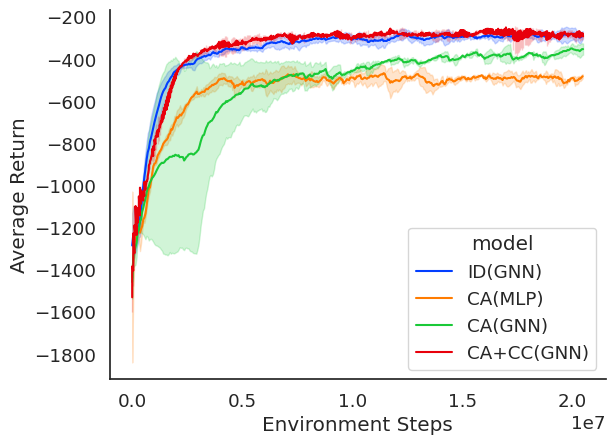
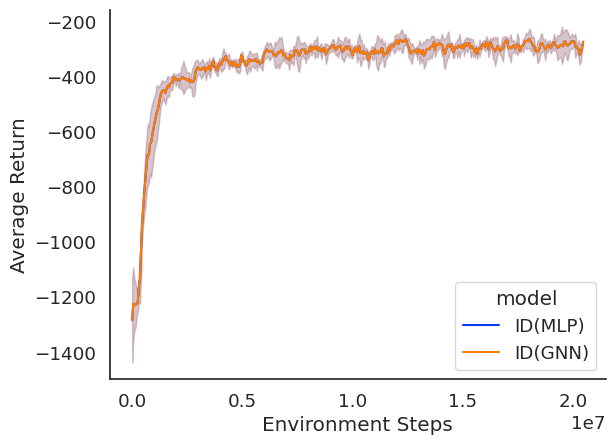
updated evaluations to incoporate agent id MLP model.

diff --git a/eval/run_all_evals.py b/eval/run_all_evals.py
@@ -3,52 +3,56 @@ import os
 import time
 
 eval_dict = {
-    "eval_3_agents_unseen_bc_default.yaml" : {
-        "SC_4_agents_HSN" : [1, 2, 3],
-        "MLP_4_agents_HSN" : [1, 2, 3],
-        "SC_CASKIP_4_agents_HSN" : [1, 2, 3]
-    },
-    "eval_4_agents_unseen_bc_default.yaml" : {
-        "SC_4_agents_HSN" : [1, 2, 3],
-        "MLP_4_agents_HSN" : [1, 2, 3],
-        "SC_CASKIP_4_agents_HSN" : [1, 2, 3]
-    },
-    "eval_4_agents_seen_bc_default.yaml" : {
-        "SC_4_agents_HSN" : [1, 2, 3],
-        "MLP_4_agents_HSN" : [1, 2, 3],
-        "SC_CASKIP_4_agents_HSN" : [1, 2, 3]
-    },
-    "eval_5_agents_unseen_bc_default.yaml" : {
-        "SC_4_agents_HSN" : [1, 2, 3],
-        "MLP_4_agents_HSN" : [1, 2, 3],
-        "SC_CASKIP_4_agents_HSN" : [1, 2, 3]
-    },
-    "eval_4_agents_CA_unseen_bc_default.yaml" : {
-        "SC_4_agents_HSN" : [1, 2, 3],
-        "MLP_4_agents_HSN" : [1, 2, 3],
-        "SC_CASKIP_4_agents_HSN" : [1, 2, 3]
-    },
+    # "eval_3_agents_unseen_bc_default.yaml" : {
+    #     "SC_4_agents_HSN" : [1, 2, 3],
+    #     "MLP_4_agents_HSN" : [1, 2, 3],
+    #     "SC_CASKIP_4_agents_HSN" : [1, 2, 3]
+    # },
+    # "eval_4_agents_unseen_bc_default.yaml" : {
+    #     "SC_4_agents_HSN" : [1, 2, 3],
+    #     "MLP_4_agents_HSN" : [1, 2, 3],
+    #     "SC_CASKIP_4_agents_HSN" : [1, 2, 3]
+    # },
+    # "eval_4_agents_seen_bc_default.yaml" : {
+    #     "SC_4_agents_HSN" : [1, 2, 3],
+    #     "MLP_4_agents_HSN" : [1, 2, 3],
+    #     "SC_CASKIP_4_agents_HSN" : [1, 2, 3]
+    # },
+    # "eval_5_agents_unseen_bc_default.yaml" : {
+    #     "SC_4_agents_HSN" : [1, 2, 3],
+    #     "MLP_4_agents_HSN" : [1, 2, 3],
+    #     "SC_CASKIP_4_agents_HSN" : [1, 2, 3]
+    # },
+    # "eval_4_agents_CA_unseen_bc_default.yaml" : {
+    #     "SC_4_agents_HSN" : [1, 2, 3],
+    #     "MLP_4_agents_HSN" : [1, 2, 3],
+    #     "SC_CASKIP_4_agents_HSN" : [1, 2, 3]
+    # },
     "eval_4_agents_ID_unseen_bc_default.yaml" : {
-        "SC_ID_4_agents_REDO" : [1, 2, 3],
+        # "SC_ID_4_agents_REDO" : [1, 2, 3],
+        "MLP_ID_4_agents_HSN" : [1, 2, 3]
     },
     "eval_4_agents_ID_seen_bc_default.yaml" : {
-        "SC_ID_4_agents_REDO" : [1, 2, 3],
+        # "SC_ID_4_agents_REDO" : [1, 2, 3],
+        "MLP_ID_4_agents_HSN" : [1, 2, 3]
     },
-    "eval_3_agents_CA_unseen_bc_default.yaml" : {
-        "SC_4_agents_HSN" : [1, 2, 3],
-        "MLP_4_agents_HSN" : [1, 2, 3],
-        "SC_CASKIP_4_agents_HSN" : [1, 2, 3]
-    },
-    "eval_5_agents_CA_unseen_bc_default.yaml" : {
-        "SC_4_agents_HSN" : [1, 2, 3],
-        "MLP_4_agents_HSN" : [1, 2, 3],
-        "SC_CASKIP_4_agents_HSN" : [1, 2, 3]
-    },
+    # "eval_3_agents_CA_unseen_bc_default.yaml" : {
+    #     "SC_4_agents_HSN" : [1, 2, 3],
+    #     "MLP_4_agents_HSN" : [1, 2, 3],
+    #     "SC_CASKIP_4_agents_HSN" : [1, 2, 3]
+    # },
+    # "eval_5_agents_CA_unseen_bc_default.yaml" : {
+    #     "SC_4_agents_HSN" : [1, 2, 3],
+    #     "MLP_4_agents_HSN" : [1, 2, 3],
+    #     "SC_CASKIP_4_agents_HSN" : [1, 2, 3]
+    # },
     "eval_3_agents_ID_unseen_bc_default.yaml" : {
-        "SC_ID_4_agents_REDO" : [1, 2, 3],
+        # "SC_ID_4_agents_REDO" : [1, 2, 3],
+        "MLP_ID_4_agents_HSN" : [1, 2, 3]
     },
     "eval_5_agents_ID_unseen_bc_default.yaml" : {
-        "SC_ID_4_agents_REDO" : [1, 2, 3],
+        # "SC_ID_4_agents_REDO" : [1, 2, 3],
+        "MLP_ID_4_agents_HSN" : [1, 2, 3]
     },
        
 }
